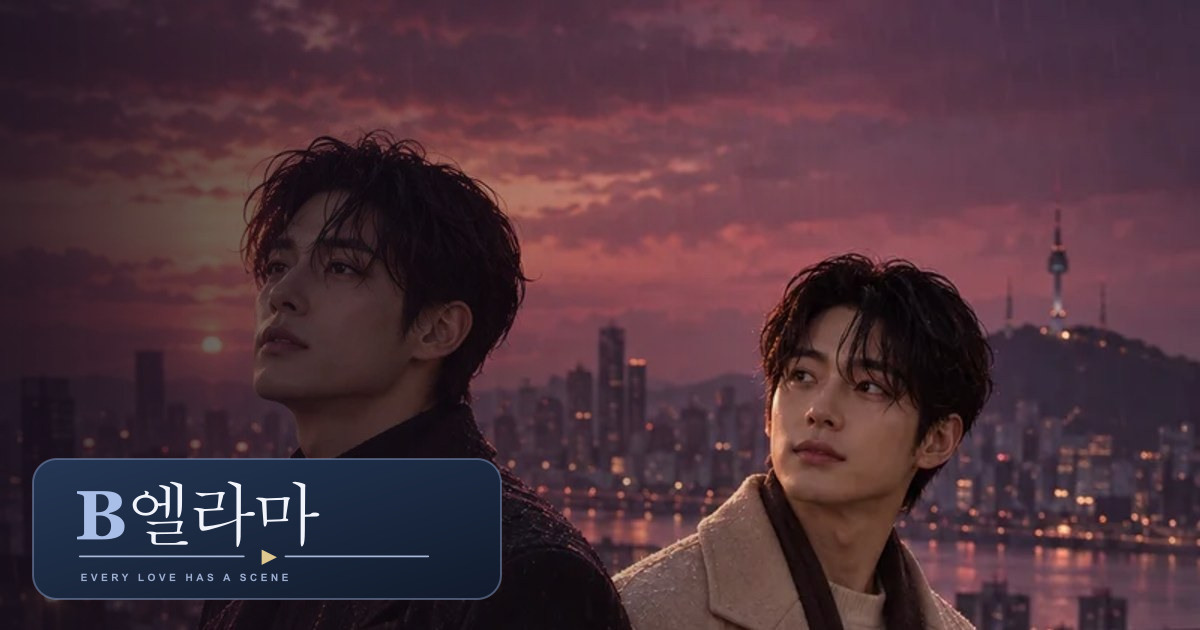
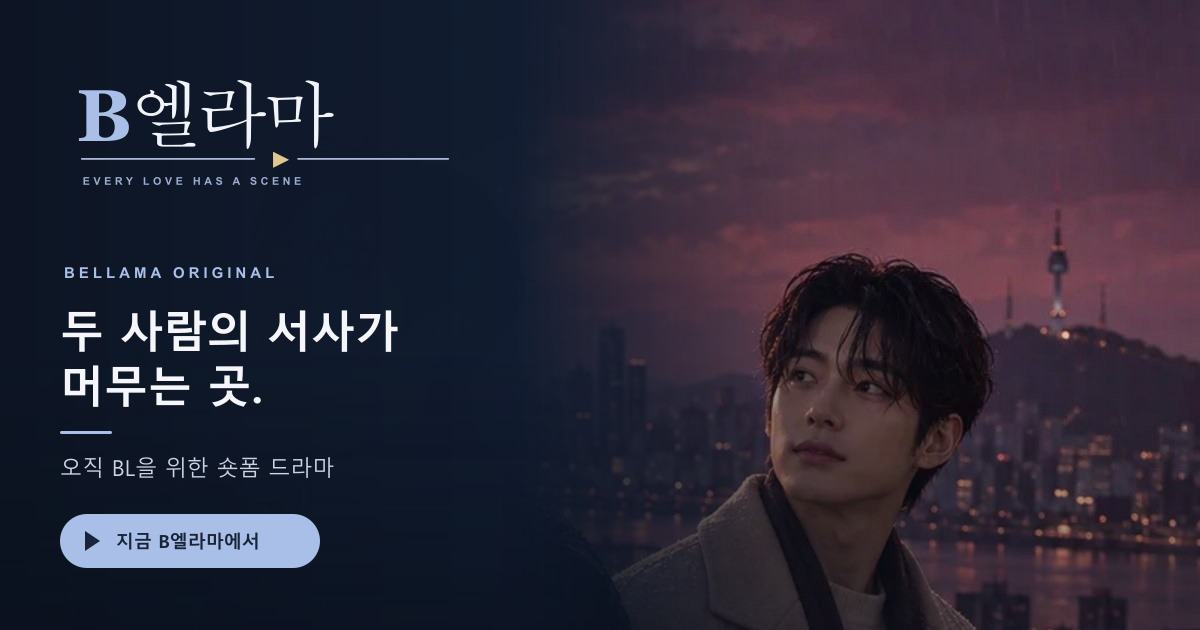
feat: polish social share cards

diff --git a/src/App.tsx b/src/App.tsx
@@ -2406,7 +2406,12 @@ function DramaPage({
           onClick={async () => {
             const url = publicUrl(`/share/drama/${encodeURIComponent(d.id)}`);
             try {
-              if (navigator.share) await navigator.share({ title: `${d.title} | B엘라마`, text: d.tagline, url });
+              if (navigator.share)
+                await navigator.share({
+                  title: `${d.title} | B엘라마`,
+                  text: `${d.tagline || d.synopsis || '지금 새로운 이야기를 만나보세요.'}\n두 사람의 서사가 머무는 곳, B엘라마.`,
+                  url,
+                });
               else {
                 await navigator.clipboard.writeText(url);
                 notify('작품 링크를 복사했어요.');

diff --git a/src/Channels.tsx b/src/Channels.tsx
@@ -273,7 +273,12 @@ export function ChannelPage({
   const share = async () => {
     const url = publicUrl(`/share/channel/${encodeURIComponent(channel.id)}`);
     try {
-      if (navigator.share) await navigator.share({ title: `${channel.name} 방송국 | B엘라마`, text: channel.tagline, url });
+      if (navigator.share)
+        await navigator.share({
+          title: `${channel.name} 방송국 | B엘라마`,
+          text: `${channel.tagline || channel.description || '새로운 이야기를 만나보세요.'}\n두 사람의 서사가 머무는 곳, B엘라마.`,
+          url,
+        });
       else {
         await navigator.clipboard.writeText(url);
         notify('방송국 주소를 복사했어요.');
